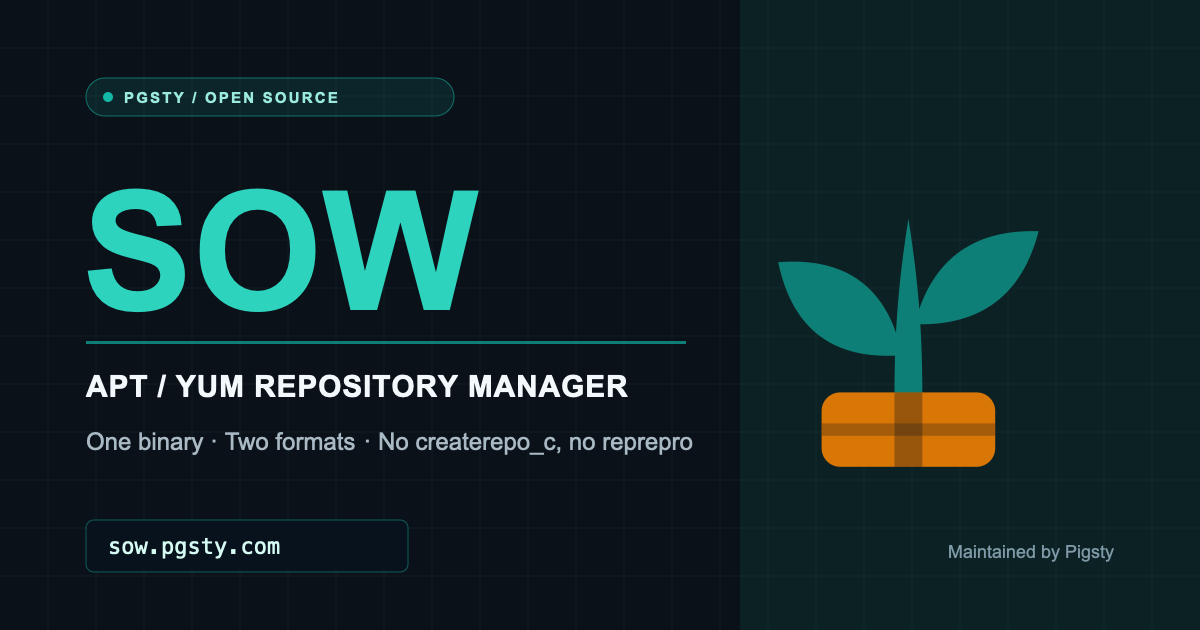
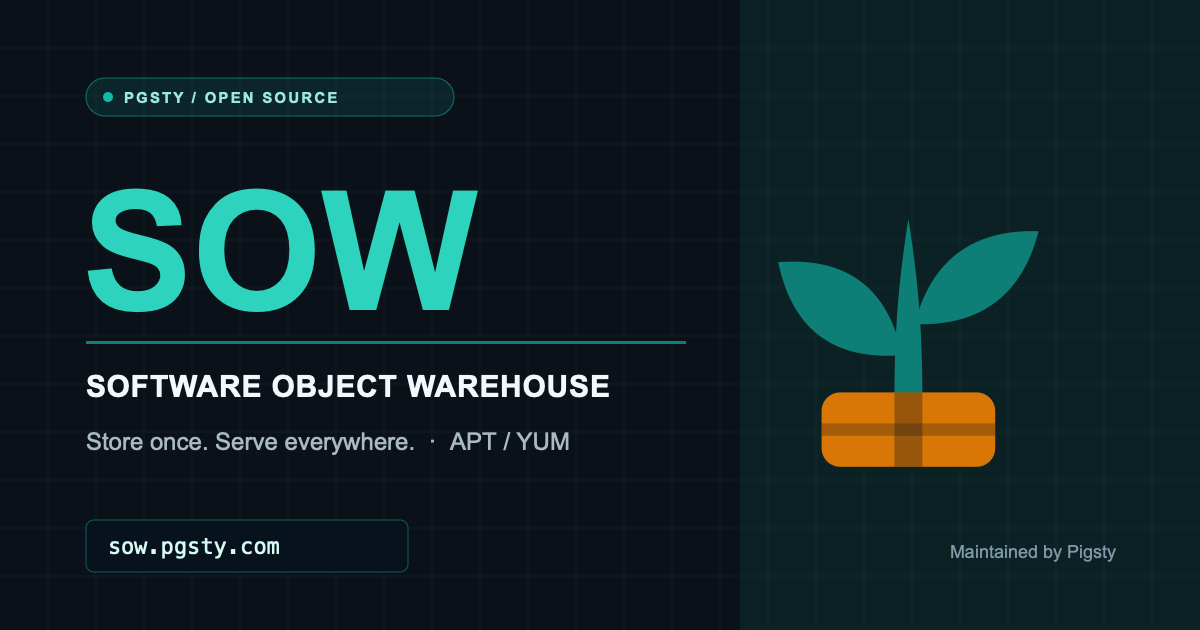
update docs

diff --git a/layouts/index.html b/layouts/index.html
@@ -3,7 +3,7 @@
 {{- $locale := default .Site.Language.Lang .Site.Language.Locale -}}
 {{- $metrics := hugo.Data.home.metrics -}}
 {{- $socialImage := "images/sow-social-card.png" | absURL -}}
-{{- $socialAlt := cond $zh "SOW — Pigsty 出品的 APT / YUM 软件仓库管理器" "SOW — APT / YUM package repository manager by Pigsty" -}}
+{{- $socialAlt := cond $zh "SOW — Software Object Warehouse，Pigsty 出品的软件仓库管理器" "SOW — Software Object Warehouse by Pigsty" -}}
 <!DOCTYPE html>
 <html lang="{{ $locale }}" class="no-js">
 <head>
@@ -59,7 +59,8 @@
   {
     "@context": "https://schema.org",
     "@type": "SoftwareApplication",
-    "name": "SOW",
+    "name": "SOW — Software Object Warehouse",
+    "alternateName": "SOW",
     "applicationCategory": "DeveloperApplication",
     "operatingSystem": "Linux, macOS",
     "url": {{ .Site.BaseURL | jsonify | safeJS }},
@@ -167,20 +168,26 @@
 
             <h1 class="hero-title silo-hero-title anim" style="--d:1">
               <span class="hero-title-line"><b class="ini ini-y">S</b>oftware</span>
-              <span class="hero-title-line"><b class="ini ini-g">O</b>ver <b class="ini ini-i">W</b>arehouse</span>
+              <span class="hero-title-line"><b class="ini ini-g">O</b>bject</span>
+              <span class="hero-title-line"><b class="ini ini-i">W</b>arehouse</span>
             </h1>
 
-            <p class="hero-sub anim" style="--d:2">
+            <p class="hero-tagline anim" style="--d:2">
+              <strong>{{ if $zh }}一份入仓，处处交付。{{ else }}Store once. Serve everywhere.{{ end }}</strong>
+              <span>{{ if $zh }}播下软件包，长成可靠仓库。{{ else }}Sow packages. Grow repositories.{{ end }}</span>
+            </p>
+
+            <p class="hero-sub anim" style="--d:3">
               {{ if $zh }}
-              <span>一个二进制，创建并管理 APT 与 YUM 仓库</span>
-              <span>替代 createrepo_c 与 reprepro，由 <a href="https://pigsty.cc" target="_blank" rel="noopener">Pigsty 社区</a>维护</span>
+              <span>一个二进制，管理 APT 与 YUM 仓库。</span>
+              <span>无需 createrepo_c 与 reprepro，由 <a href="https://pigsty.cc" target="_blank" rel="noopener">Pigsty</a> 维护</span>
               {{ else }}
-              <span>One binary that builds and manages APT &amp; YUM repositories</span>
-              <span>createrepo_c and reprepro, replaced — by the <a href="https://pigsty.io" target="_blank" rel="noopener">Pigsty Community</a></span>
+              <span>One binary for APT &amp; YUM repositories.</span>
+              <span>No createrepo_c. No reprepro. Built by <a href="https://pigsty.io" target="_blank" rel="noopener">Pigsty</a>.</span>
               {{ end }}
             </p>
 
-            <div class="hero-ctas anim" style="--d:3">
+            <div class="hero-ctas anim" style="--d:4">
               <a href="{{ relLangURL "docs/" }}" class="btn btn-primary"><i class="fas fa-book-open" aria-hidden="true"></i> {{ if $zh }}浏览文档{{ else }}Documentation{{ end }}</a>
               <a href="{{ relLangURL "download/" }}" class="btn btn-ghost"><i class="fas fa-download" aria-hidden="true"></i> {{ if $zh }}下载安装{{ else }}Download &amp; Install{{ end }}</a>
             </div>
@@ -222,7 +229,7 @@
       <div class="landing-container">
         <div class="section-head section-head--compact" data-reveal>
           <p class="section-eyebrow"><span class="silkscreen">PRODUCT FACTS</span><span class="eyebrow-trace" aria-hidden="true"></span></p>
-          <h2 class="section-title section-title--sm" id="metrics-title">{{ if $zh }}一个二进制覆盖的范围{{ else }}What a single binary covers{{ end }}</h2>
+          <h2 class="section-title section-title--sm" id="metrics-title">{{ if $zh }}一个二进制，四项事实{{ else }}One Binary. Four Facts.{{ end }}</h2>
         </div>
 
         <div class="stats-grid" data-reveal>
@@ -250,14 +257,14 @@
       <div class="landing-container">
         <div class="section-head" data-reveal>
           <p class="section-eyebrow"><span class="silkscreen">{{ if $zh }}价值主张{{ else }}VALUE PROPOSITION{{ end }}</span><span class="eyebrow-trace" aria-hidden="true"></span></p>
-          <h2 class="section-title">{{ if $zh }}把发包这件事，收进一个二进制{{ else }}Everything a repository needs, in one executable{{ end }}</h2>
-          <p class="section-subtitle">{{ if $zh }}面向自己维护软件源的运维者：不装工具链，不起常驻服务，不猜测状态。{{ else }}For operators who host their own package feeds—no toolchain to install, no daemon to run, no guessing about state.{{ end }}</p>
+          <h2 class="section-title">{{ if $zh }}仓库所需，尽在其中{{ else }}Everything a Repository Needs{{ end }}</h2>
+          <p class="section-subtitle">{{ if $zh }}面向自建软件源：不要工具链，不起常驻服务，不猜状态。{{ else }}For operators running package feeds: no toolchain, no daemon, no guesswork.{{ end }}</p>
         </div>
 
         <div class="module-row" data-reveal>
           <div class="module-content">
             <p class="module-ref silkscreen">01 · {{ if $zh }}双引擎{{ else }}TWO ENGINES{{ end }}</p>
-            <h3 class="module-title"><a href="{{ relLangURL "docs/feature/plain/" }}">{{ if $zh }}平面仓库与托管工作区{{ else }}Flat Repositories and Managed Workspaces{{ end }}</a></h3>
+            <h3 class="module-title"><a href="{{ relLangURL "docs/feature/plain/" }}">{{ if $zh }}平面与托管，两种模式{{ else }}Plain or Managed{{ end }}</a></h3>
             <p class="module-motto"><span aria-hidden="true">◇</span> {{ if $zh }}一条命令起步，一套模型长跑{{ else }}One command to start. One model to grow into{{ end }}</p>
             <ul class="module-list">
               <li>{{ if $zh }}<strong>Plain</strong>：<code>sow create</code> 就地索引一个放着 rpm / deb 的目录{{ else }}<strong>Plain</strong>: <code>sow create</code> indexes a directory of rpm / deb files in place{{ end }}</li>
@@ -284,7 +291,7 @@
         <div class="module-row module-row--reverse" data-reveal>
           <div class="module-content">
             <p class="module-ref silkscreen">02 · {{ if $zh }}包池与视图{{ else }}POOL AND VIEWS{{ end }}</p>
-            <h3 class="module-title"><a href="{{ relLangURL "docs/feature/views/" }}">{{ if $zh }}一份包体，多个架构视图{{ else }}One Payload, Many Architecture Views{{ end }}</a></h3>
+            <h3 class="module-title"><a href="{{ relLangURL "docs/feature/views/" }}">{{ if $zh }}一份包体，多个视图{{ else }}One Payload, Many Views{{ end }}</a></h3>
             <p class="module-motto"><span aria-hidden="true">↔</span> {{ if $zh }}包池持有内容，视图只是投影{{ else }}The pool owns the bytes. Views are projections{{ end }}</p>
             <ul class="module-list">
               <li>{{ if $zh }}Debian 风格 <code>pool/</code> 包池，内容不可变、按首字母分组{{ else }}A Debian-style <code>pool/</code> holds immutable payloads, grouped by initial{{ end }}</li>
@@ -309,7 +316,7 @@
         <div class="module-row" id="releases" data-reveal>
           <div class="module-content">
             <p class="module-ref silkscreen">03 · {{ if $zh }}签名与信任{{ else }}SIGNING AND TRUST{{ end }}</p>
-            <h3 class="module-title"><a href="{{ relLangURL "docs/feature/signing/" }}">{{ if $zh }}两条独立的信任链{{ else }}Two Independent Trust Chains{{ end }}</a></h3>
+            <h3 class="module-title"><a href="{{ relLangURL "docs/feature/signing/" }}">{{ if $zh }}两条独立信任链{{ else }}Two Trust Chains{{ end }}</a></h3>
             <p class="module-motto"><span aria-hidden="true">▦</span> {{ if $zh }}元数据签名与包签名，各管各的{{ else }}Metadata signatures and package signatures, kept apart{{ end }}</p>
             <ul class="module-list">
               <li>{{ if $zh }}元数据签名在进程内完成：<code>repomd.xml.asc</code>、<code>InRelease</code>、<code>Release.gpg</code>{{ else }}Metadata is signed in-process: <code>repomd.xml.asc</code>, <code>InRelease</code>, <code>Release.gpg</code>{{ end }}</li>
@@ -337,7 +344,7 @@
         <div class="module-row module-row--reverse" data-reveal>
           <div class="module-content">
             <p class="module-ref silkscreen">04 · {{ if $zh }}事务与审计{{ else }}TRANSACTIONS AND AUDIT{{ end }}</p>
-            <h3 class="module-title"><a href="{{ relLangURL "docs/feature/transactions/" }}">{{ if $zh }}中断之后，仓库仍然是完整的{{ else }}Interrupt It. The Repository Stays Whole{{ end }}</a></h3>
+            <h3 class="module-title"><a href="{{ relLangURL "docs/feature/transactions/" }}">{{ if $zh }}中断不破坏仓库{{ else }}Crash-Safe by Design{{ end }}</a></h3>
             <p class="module-motto"><span aria-hidden="true">＋</span> {{ if $zh }}先记意图，再动文件{{ else }}Record the intent, then touch the files{{ end }}</p>
             <ul class="module-list">
               <li>{{ if $zh }}写操作先落 journal，崩溃后由下一条写命令前滚或回滚{{ else }}Writes are journaled first; the next write command rolls them forward or back{{ end }}</li>
@@ -367,8 +374,8 @@
       <div class="landing-container">
         <div class="section-head" data-reveal>
           <p class="section-eyebrow"><span class="silkscreen">COMMAND SURFACE</span><span class="eyebrow-trace" aria-hidden="true"></span></p>
-          <h2 class="section-title">{{ if $zh }}一套命令，覆盖仓库的一生{{ else }}One command set for the whole repository lifecycle{{ end }}</h2>
-          <p class="section-subtitle">{{ if $zh }}创建、加包、构建、校验、审计——每个动词都有确定的退出码和可选的 JSON 输出。{{ else }}Create, add, build, check, audit—every verb has a defined exit code and an optional JSON envelope.{{ end }}</p>
+          <h2 class="section-title">{{ if $zh }}一套 CLI，覆盖完整生命周期{{ else }}One CLI for the Whole Lifecycle{{ end }}</h2>
+          <p class="section-subtitle">{{ if $zh }}创建、加包、构建、校验、审计——全程都有确定的退出码与可选 JSON。{{ else }}Create, add, build, check, audit—defined exit codes and optional JSON throughout.{{ end }}</p>
           <div class="section-links">
             <a href="{{ relLangURL "docs/reference/cli/" }}">{{ if $zh }}命令行参考{{ else }}CLI Reference{{ end }} →</a>
             <a href="{{ relLangURL "docs/reference/config/" }}">{{ if $zh }}配置文件{{ else }}Configuration{{ end }} →</a>
@@ -404,8 +411,8 @@
       <div class="landing-container">
         <div class="section-head" data-reveal>
           <p class="section-eyebrow"><span class="silkscreen">SCOPE</span><span class="eyebrow-trace" aria-hidden="true"></span></p>
-          <h2 class="section-title">{{ if $zh }}一份刻意收窄的范围{{ else }}A deliberately narrow scope{{ end }}</h2>
-          <p class="section-subtitle">{{ if $zh }}SOW 只做本地仓库的创建与维护。下面右侧不是待办清单，是明确的非目标。{{ else }}SOW builds and maintains local repositories. The column on the right is not a backlog—those are explicit non-goals.{{ end }}</p>
+          <h2 class="section-title">{{ if $zh }}专注，源于取舍{{ else }}Focused by Design{{ end }}</h2>
+          <p class="section-subtitle">{{ if $zh }}SOW 专注本地仓库；右侧列的是明确非目标，不是待办清单。{{ else }}SOW builds local repositories. The right column lists intentional non-goals, not a backlog.{{ end }}</p>
         </div>
         <div class="promise-grid" data-reveal>
           <article class="promise-card promise-card--yes">
@@ -427,7 +434,7 @@
         <div class="section-head" data-reveal>
           <p class="section-eyebrow"><span class="silkscreen">DOWNLOAD</span><span class="eyebrow-trace" aria-hidden="true"></span></p>
           <h2 class="section-title">{{ if $zh }}获取 SOW{{ else }}Get SOW{{ end }}</h2>
-          <p class="section-subtitle">{{ if $zh }}取一个与你平台匹配的二进制，或者用 Go 工具链自己构建一个。两条路径都不需要额外运行时。{{ else }}Take a prebuilt binary for your platform, or build one with the Go toolchain. Neither path needs an extra runtime.{{ end }}</p>
+          <p class="section-subtitle">{{ if $zh }}下载静态二进制，或用 Go 自行构建；两条路径都不需要额外运行时。{{ else }}Download a static binary or build with Go. Neither path needs an extra runtime.{{ end }}</p>
         </div>
 
         <div class="product-choice-grid" aria-label="{{ if $zh }}选择安装方式{{ else }}Choose an install path{{ end }}">

diff --git a/static/css/silo-v3.css b/static/css/silo-v3.css
@@ -33,12 +33,12 @@
 }
 
 .silo-hero-title {
-  font-size: clamp(3rem, 5.15vw, 4.55rem);
-  line-height: 0.98;
+  font-size: clamp(2.65rem, 4.2vw, 3.75rem);
+  line-height: 0.92;
   letter-spacing: -0.025em;
 }
 
-.silo-hero-title .hero-title-line + .hero-title-line { margin-top: 0.12em; }
+.silo-hero-title .hero-title-line + .hero-title-line { margin-top: 0.06em; }
 .silo-hero-title .ini { display: inline-block; font-size: 1.07em; line-height: 0.9; vertical-align: -0.02em; }
 
 .hero-sub a {
@@ -566,7 +566,7 @@ html[data-theme="dark"] .adoption-logos a.evidence-logo-item:hover img {
 }
 
 @media (max-width: 980px) {
-  .silo-hero-title { font-size: clamp(3.2rem, 9vw, 5rem); }
+  .silo-hero-title { font-size: clamp(2.75rem, 8vw, 4rem); }
   .silo-board { min-height: 324px; }
   .silo-chip { width: 164px; }
   .interface-grid { grid-template-columns: repeat(3, 1fr); }
@@ -575,7 +575,8 @@ html[data-theme="dark"] .adoption-logos a.evidence-logo-item:hover img {
 }
 
 @media (max-width: 768px) {
-  .silo-hero-title { font-size: clamp(2.3rem, 11.5vw, 3.5rem); }
+  .silo-hero-title { font-size: clamp(2.25rem, 10vw, 3.25rem); }
+  .hero-sub span { display: block; }
   .silo-board-stage { padding: 0; }
   .silo-board { grid-template-rows: auto minmax(232px, 1fr) auto; min-height: 318px; }
   .silo-port { min-width: 100px; padding: 8px 9px; }
@@ -600,7 +601,7 @@ html[data-theme="dark"] .adoption-logos a.evidence-logo-item:hover img {
 }
 
 @media (max-width: 480px) {
-  .silo-hero-title { font-size: clamp(2.1rem, 11vw, 2.9rem); }
+  .silo-hero-title { font-size: clamp(2rem, 10.5vw, 2.75rem); }
   .eyebrow-zh { display: none; }
   .silo-board { grid-template-rows: auto minmax(212px, 1fr) auto; min-height: 296px; }
   .silo-board-top,

diff --git a/static/css/landing-v3.css b/static/css/landing-v3.css
@@ -239,7 +239,7 @@ main { display: block; }
 
 .section-subtitle {
   margin: 14px 0 0;
-  max-width: 720px;
+  max-width: none;
   color: var(--ink-soft);
   font-size: clamp(1rem, 1.25vw, 1.15rem);
 }
@@ -657,6 +657,25 @@ html[data-theme="dark"] .ini-s { color: #8b93a0; }
   font-size: clamp(1.02rem, 1.5vw, 1.22rem);
   color: var(--ink-soft);
 }
+.hero-tagline {
+  display: grid;
+  gap: 5px;
+  margin: -2px 0 20px;
+}
+.hero-tagline strong {
+  font-family: var(--font-head);
+  font-size: clamp(1.08rem, 1.8vw, 1.42rem);
+  line-height: 1.25;
+  letter-spacing: 0.01em;
+  color: var(--ink);
+}
+.hero-tagline span {
+  font-family: var(--font-mono);
+  font-size: clamp(0.76rem, 1vw, 0.9rem);
+  line-height: 1.45;
+  letter-spacing: 0.045em;
+  color: var(--copper);
+}
 .hero-sub span { display: block; }
 .hero-sub strong { color: var(--ink); }
 .landing-page .hero-sub-link {
@@ -712,6 +731,10 @@ html[data-theme="dark"] .ini-s { color: #8b93a0; }
     margin-left: -12px;
     margin-right: -28px;
   }
+  .hero-tagline strong,
+  .hero-tagline span,
+  .hero-sub span,
+  .modules .module-title { white-space: nowrap; }
 }
 
 .board-stage {
@@ -944,7 +967,7 @@ html.js .anim {
   opacity: 0.85;
 }
 
-.module-title { margin: 0 0 6px; font-size: clamp(1.65rem, 2.6vw, 2.2rem); font-weight: 900; font-family: var(--font-head); line-height: 1.25; }
+.module-title { margin: 0 0 6px; font-size: clamp(1.45rem, 2.15vw, 1.9rem); font-weight: 900; font-family: var(--font-head); line-height: 1.2; }
 .module-title a { color: var(--ink); }
 .module-title a:hover { color: var(--pg-strong); }
 

diff --git a/layouts/_partials/footer.html b/layouts/_partials/footer.html
@@ -8,7 +8,7 @@
           <img src="{{ "img/sow.svg" | relURL }}" alt="" width="28" height="28">
           <span>SOW</span>
         </a>
-        <p class="silo-footer__tagline"><b class="ini ini-y">S</b>elf-contained <b class="ini ini-g">O</b>ffline <b class="ini ini-i">W</b>arehouse<br>{{ if $zh }}<span class="silo-footer__tagline-zh">一次播种，处处可装</span>{{ else }}Sow once, serve everywhere.{{ end }}</p>
+        <p class="silo-footer__tagline"><b class="ini ini-y">S</b>oftware <b class="ini ini-g">O</b>bject <b class="ini ini-i">W</b>arehouse<br>{{ if $zh }}<span class="silo-footer__tagline-zh">一份入仓，处处交付</span>{{ else }}Store once. Serve everywhere.{{ end }}</p>
         <p class="silo-footer__origin">{{ if $zh }}一个自包含的 APT / YUM 软件仓库管理器，由 <a href="https://pigsty.cc/" target="_blank" rel="noopener">PIGSTY</a> 社区构建与维护。{{ else }}A self-contained APT / YUM package repository manager, built and maintained by <a href="https://pigsty.io/" target="_blank" rel="noopener">PIGSTY</a>.{{ end }}</p>
       </div>
 

diff --git a/content/_index.md b/content/_index.md
@@ -1,6 +1,6 @@
 ---
-title: "SOW: Package Repository Manager by Pigsty"
-description: "Self-contained APT / YUM package repository manager. One static Go binary that replaces createrepo_c and reprepro, on Linux and macOS."
+title: "SOW: Software Object Warehouse"
+description: "Store once. Serve everywhere. SOW is a self-contained APT / YUM package repository manager from Pigsty."
 url: "/"
 weight: 1
 type: home

diff --git a/content/_index.zh.md b/content/_index.zh.md
@@ -1,6 +1,6 @@
 ---
-title: "SOW:Pigsty 出品的软件仓库管理器"
-description: "自包含的 APT / YUM 软件仓库管理器。一个静态 Go 二进制,在 Linux 与 macOS 上替代 createrepo_c 与 reprepro。"
+title: "SOW：Software Object Warehouse"
+description: "一份入仓，处处交付。SOW 是 Pigsty 出品的自包含 APT / YUM 软件仓库管理器。"
 url: "/zh/"
 weight: 1
 type: home
